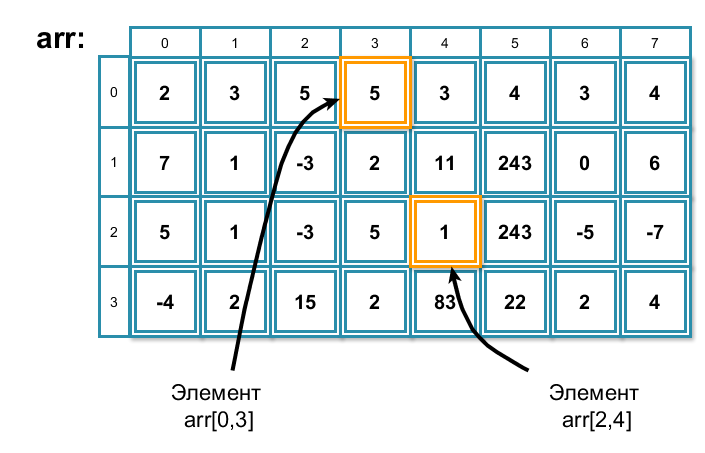
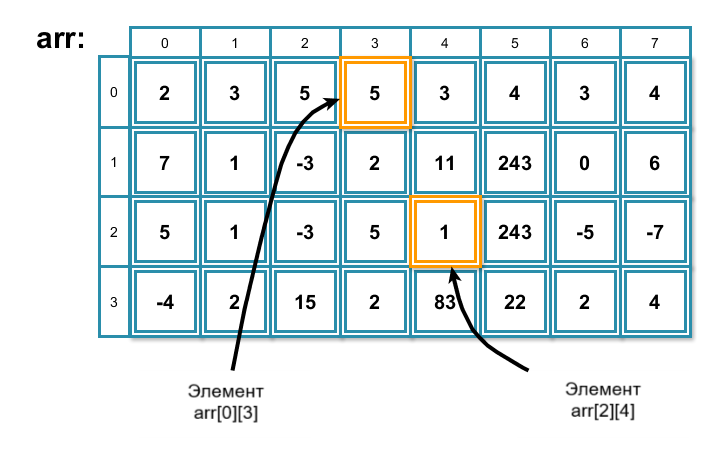
Исправление картинки и разметки в 8.3

Changed region(s): [[0.7801, 0.8344, 0.905, 0.9581], [0.2496, 0.8344, 0.3745, 0.9581]]

diff --git a/lang_c/8/2__dvumernie_massivy/article.md b/lang_c/8/2__dvumernie_massivy/article.md
@@ -29,7 +29,7 @@
 Или таблица 12 на 31, где можно было бы хранить температуру в течение года. Понятно, что в некоторых месяцах будут заполнены не все клеточки таблицы, но это ничего страшного. Договоримся и будем туда записывать, например, число -9999.99, которое будет обозначать, что данные не определены.
 Ещё примеры: таблица Пифагора, поле для игры в крестики нолики, поле для игры 2048.
 
-В подобных случаях используют `двумерные массивы`, т.е. массивы, у которых два измерения (два счётчика).
+В подобных случаях используют =двумерные массивы=, т.е. массивы, у которых два измерения (два счётчика).
 
 ![Двумерный массив](./arrays2.png)
 
@@ -63,6 +63,10 @@ int arr [2][4] = {{1,2,4,29},{3,4,6,1}}; //произвольными значе
 
 ![Обращение к конкретному элементу двумерного массива](./el_arr.png)
 
+% **Важно!**
+Первый индекс -- строки.
+Второй индекс -- столбцы.
+Нумерация начинается с нуля.
 
 Следующая программа иллюстрирует основные операции для работы с двумерными массивами.
 
@@ -71,47 +75,51 @@ int arr [2][4] = {{1,2,4,29},{3,4,6,1}}; //произвольными значе
 ```c
 #include <stdio.h>
 
-int main(void) {
+int main(void)
+{
 
-  int arr[4][8] = {{2,3,5,5,3,4,3,4},
-                   {7,1,-3,2,11,243,0,6},
-                   {5,1,-3,5,1,243,-5,-7},
-                   {-4,2,15,2,83,22,2,4}};
+    int arr[4][8] = {{2,3,5,5,3,4,3,4},
+                    {7,1,-3,2,11,243,0,6},
+                    {5,1,-3,5,1,243,-5,-7},
+                    {-4,2,15,2,83,22,2,4}};
 
-  printf("%d\t%d\n\n", arr[0][3], arr[2][4]);
+    printf("%d\t%d\n\n", arr[0][3], arr[2][4]);
 
-  for (int i = 0; i < 4; i = i + 1){
-    for(int j = 0; j < 8; j = j + 1){
-      printf("%d\t", arr[i][j]);
+    /* Построчно обходим двумерный массив
+       и выводим его элементы на экран
+    */
+    for (int i = 0; i < 4; i = i + 1){
+        for(int j = 0; j < 8; j = j + 1){
+            printf("%d\t", arr[i][j]);
+        }
+        printf("\n");
     }
-    printf("\n");
-  }
 
-  return 0;
+    return 0;
 }
 ```
 
 Как видите, если в одномерном массиве мы использовали один цикл для перебора всех элементов массива, то в двумерном два цикла. Первый цикл последовательно перебирает строчки, а второй последовательно перебирает элементы строки. Индексы массива в цикле будут перебираться в следующей последовательности:
 
-```c
+```
 i = 0;
-  j = 0;
-  j = 1;
-  j = 2;
-  j = 3;
-  j = 4;
-  j = 5;
-  j = 6;
-  j = 7;
+    j = 0;
+    j = 1;
+    j = 2;
+    j = 3;
+    j = 4;
+    j = 5;
+    j = 6;
+    j = 7;
 i = 1;
-  j = 0;
-  j = 1;
-  j = 2;
-  j = 3;
-  j = 4;
-  j = 5;
-  j = 6;
-  j = 7;
+    j = 0;
+    j = 1;
+    j = 2;
+    j = 3;
+    j = 4;
+    j = 5;
+    j = 6;
+    j = 7;
 и т.д.
 ```
 
@@ -122,26 +130,27 @@ i = 1;
 ```c
 #include <stdio.h>
 
-int main(void) {
+int main(void)
+{
 
-  int arr[4][8] = {0};
-  int k = 1;
+    int arr[4][8] = {0};
+    int counter = 1;
 
-  for (int i = 0; i < 4; i = i + 1){
-    for(int j = 0; j < 8; j = j + 1){
-      arr[i][j] = k;
-      k = k + 1;
+    for (int i = 0; i < 4; i = i + 1){
+        for(int j = 0; j < 8; j = j + 1){
+            arr[i][j] = counter;
+            counter = counter + 1;
+        }
     }
-  }
 
-  for (int i = 0; i < 4; i = i + 1){
-    for(int j = 0; j < 8; j = j + 1){
-      printf("%d\t", arr[i][j]);
+    for (int i = 0; i < 4; i = i + 1){
+        for(int j = 0; j < 8; j = j + 1){
+            printf("%d\t", arr[i][j]);
+        }
+        printf("\n");
     }
-    printf("\n");
-  }
 
-  return 0;
+    return 0;
 }
 ```
 

diff --git a/lang_c/8/2__dvumernie_massivy/practice.md b/lang_c/8/2__dvumernie_massivy/practice.md
@@ -1,3 +1,7 @@
 ## Практика
 
 - Решите [задачи с автоматической проверкой решения на Stepik](https://stepik.org/lesson/64657/step/1)
+
+<div class="lessonStepikBlock">
+    <iframe src="https://stepik.org/lesson/64657/step/1"></iframe>
+</div>
